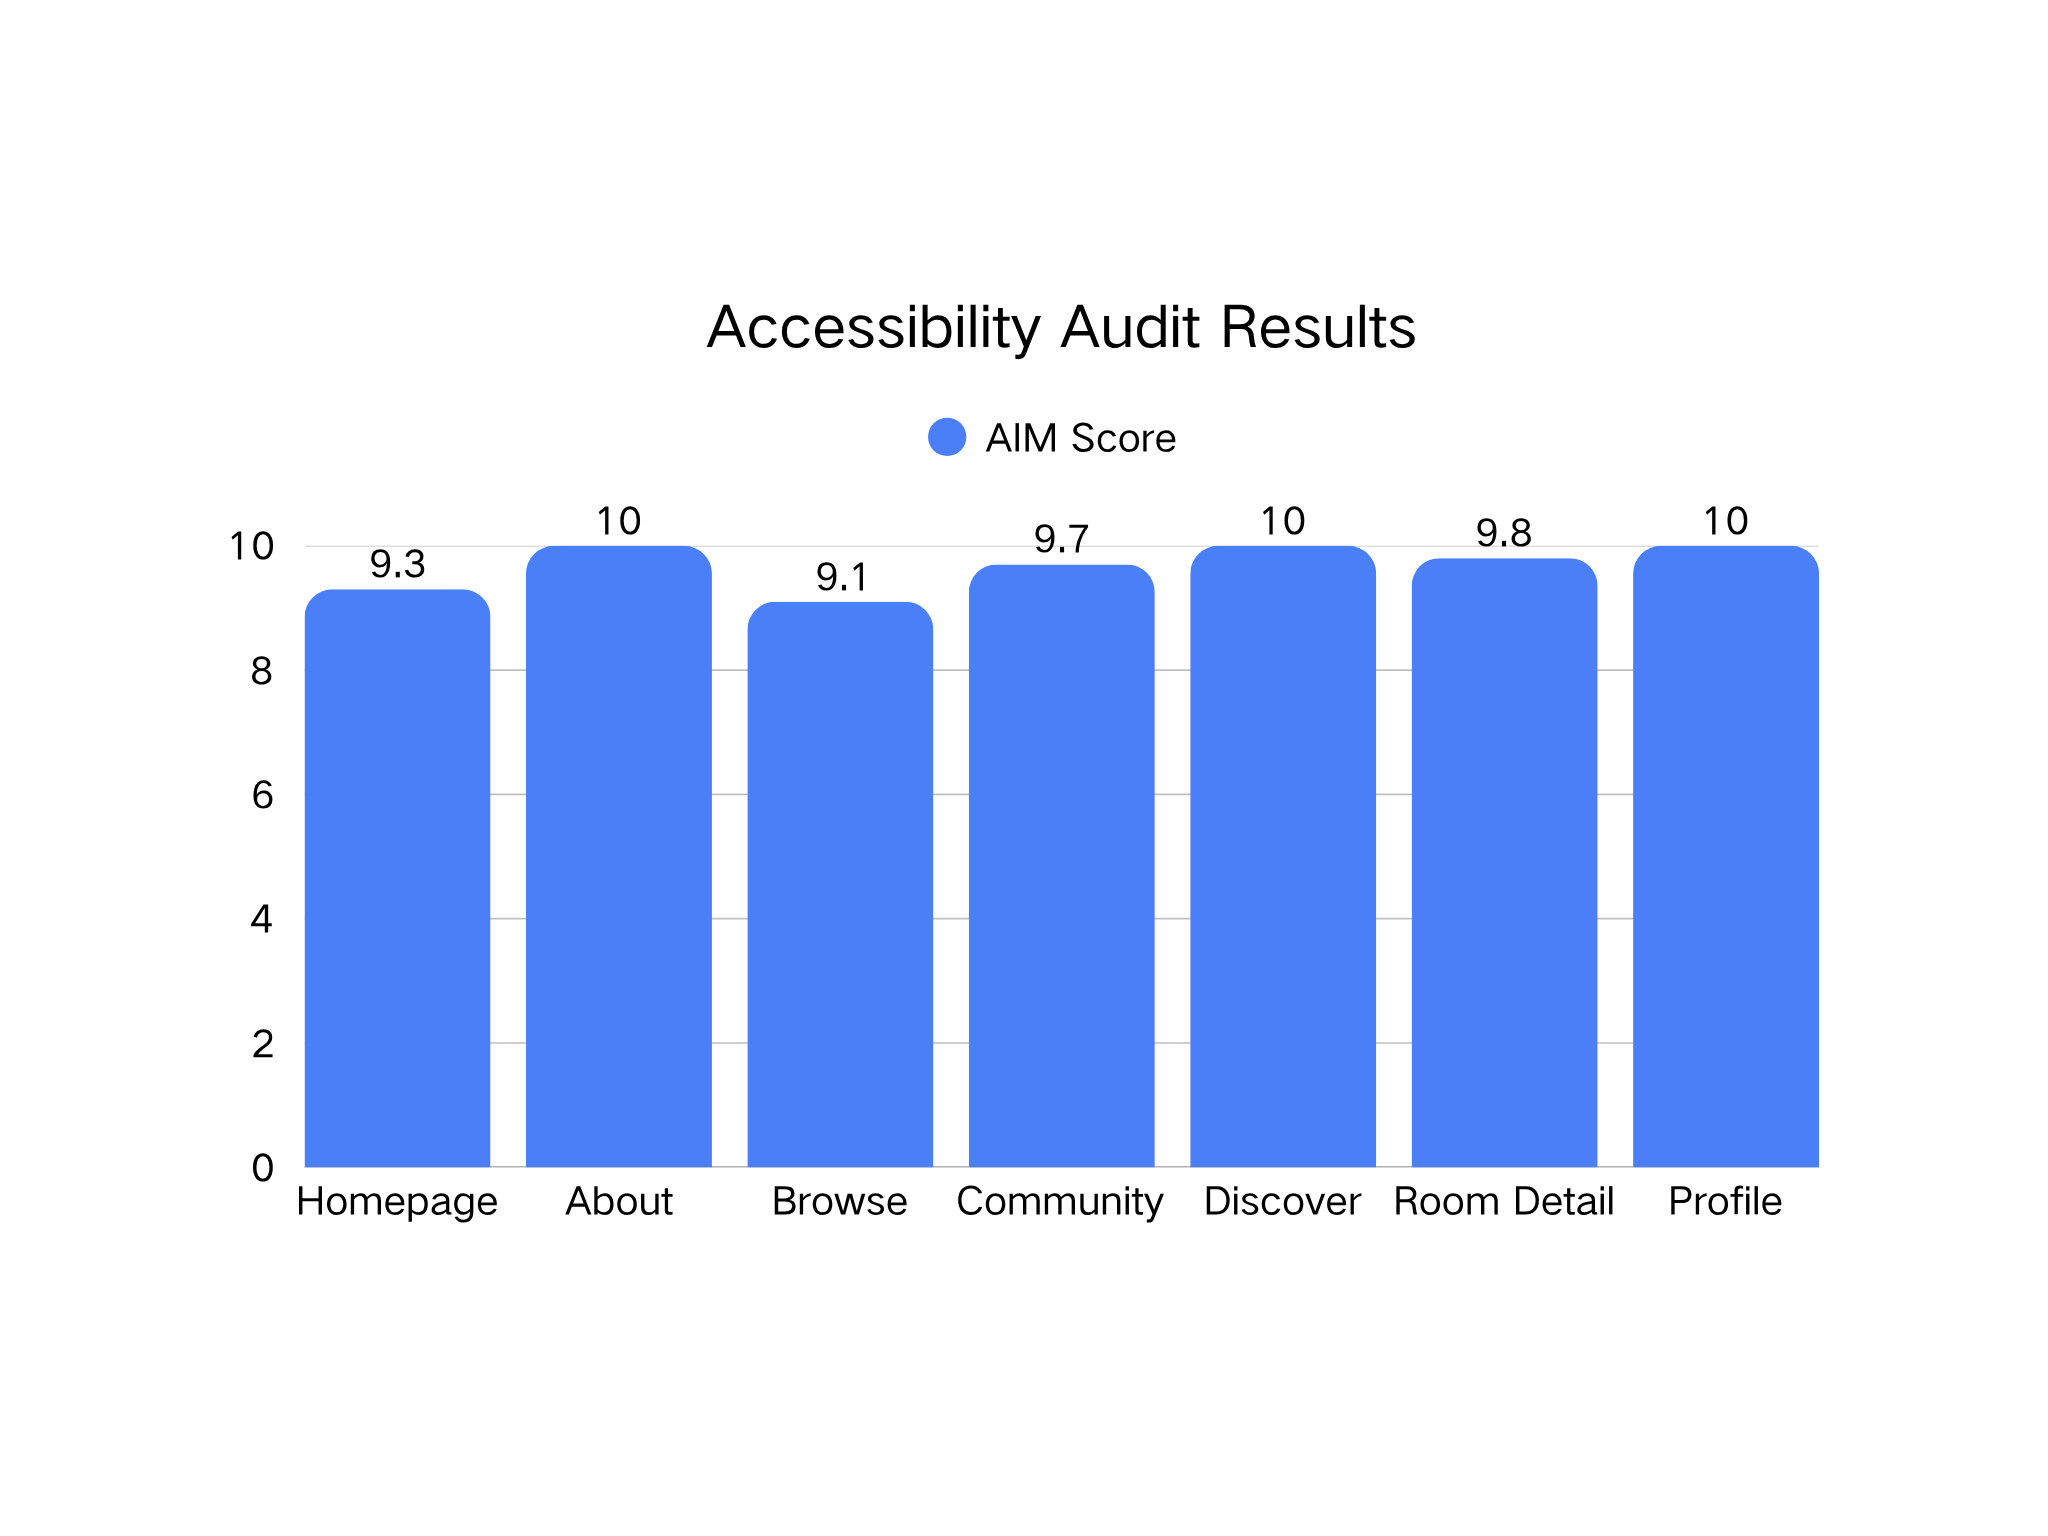
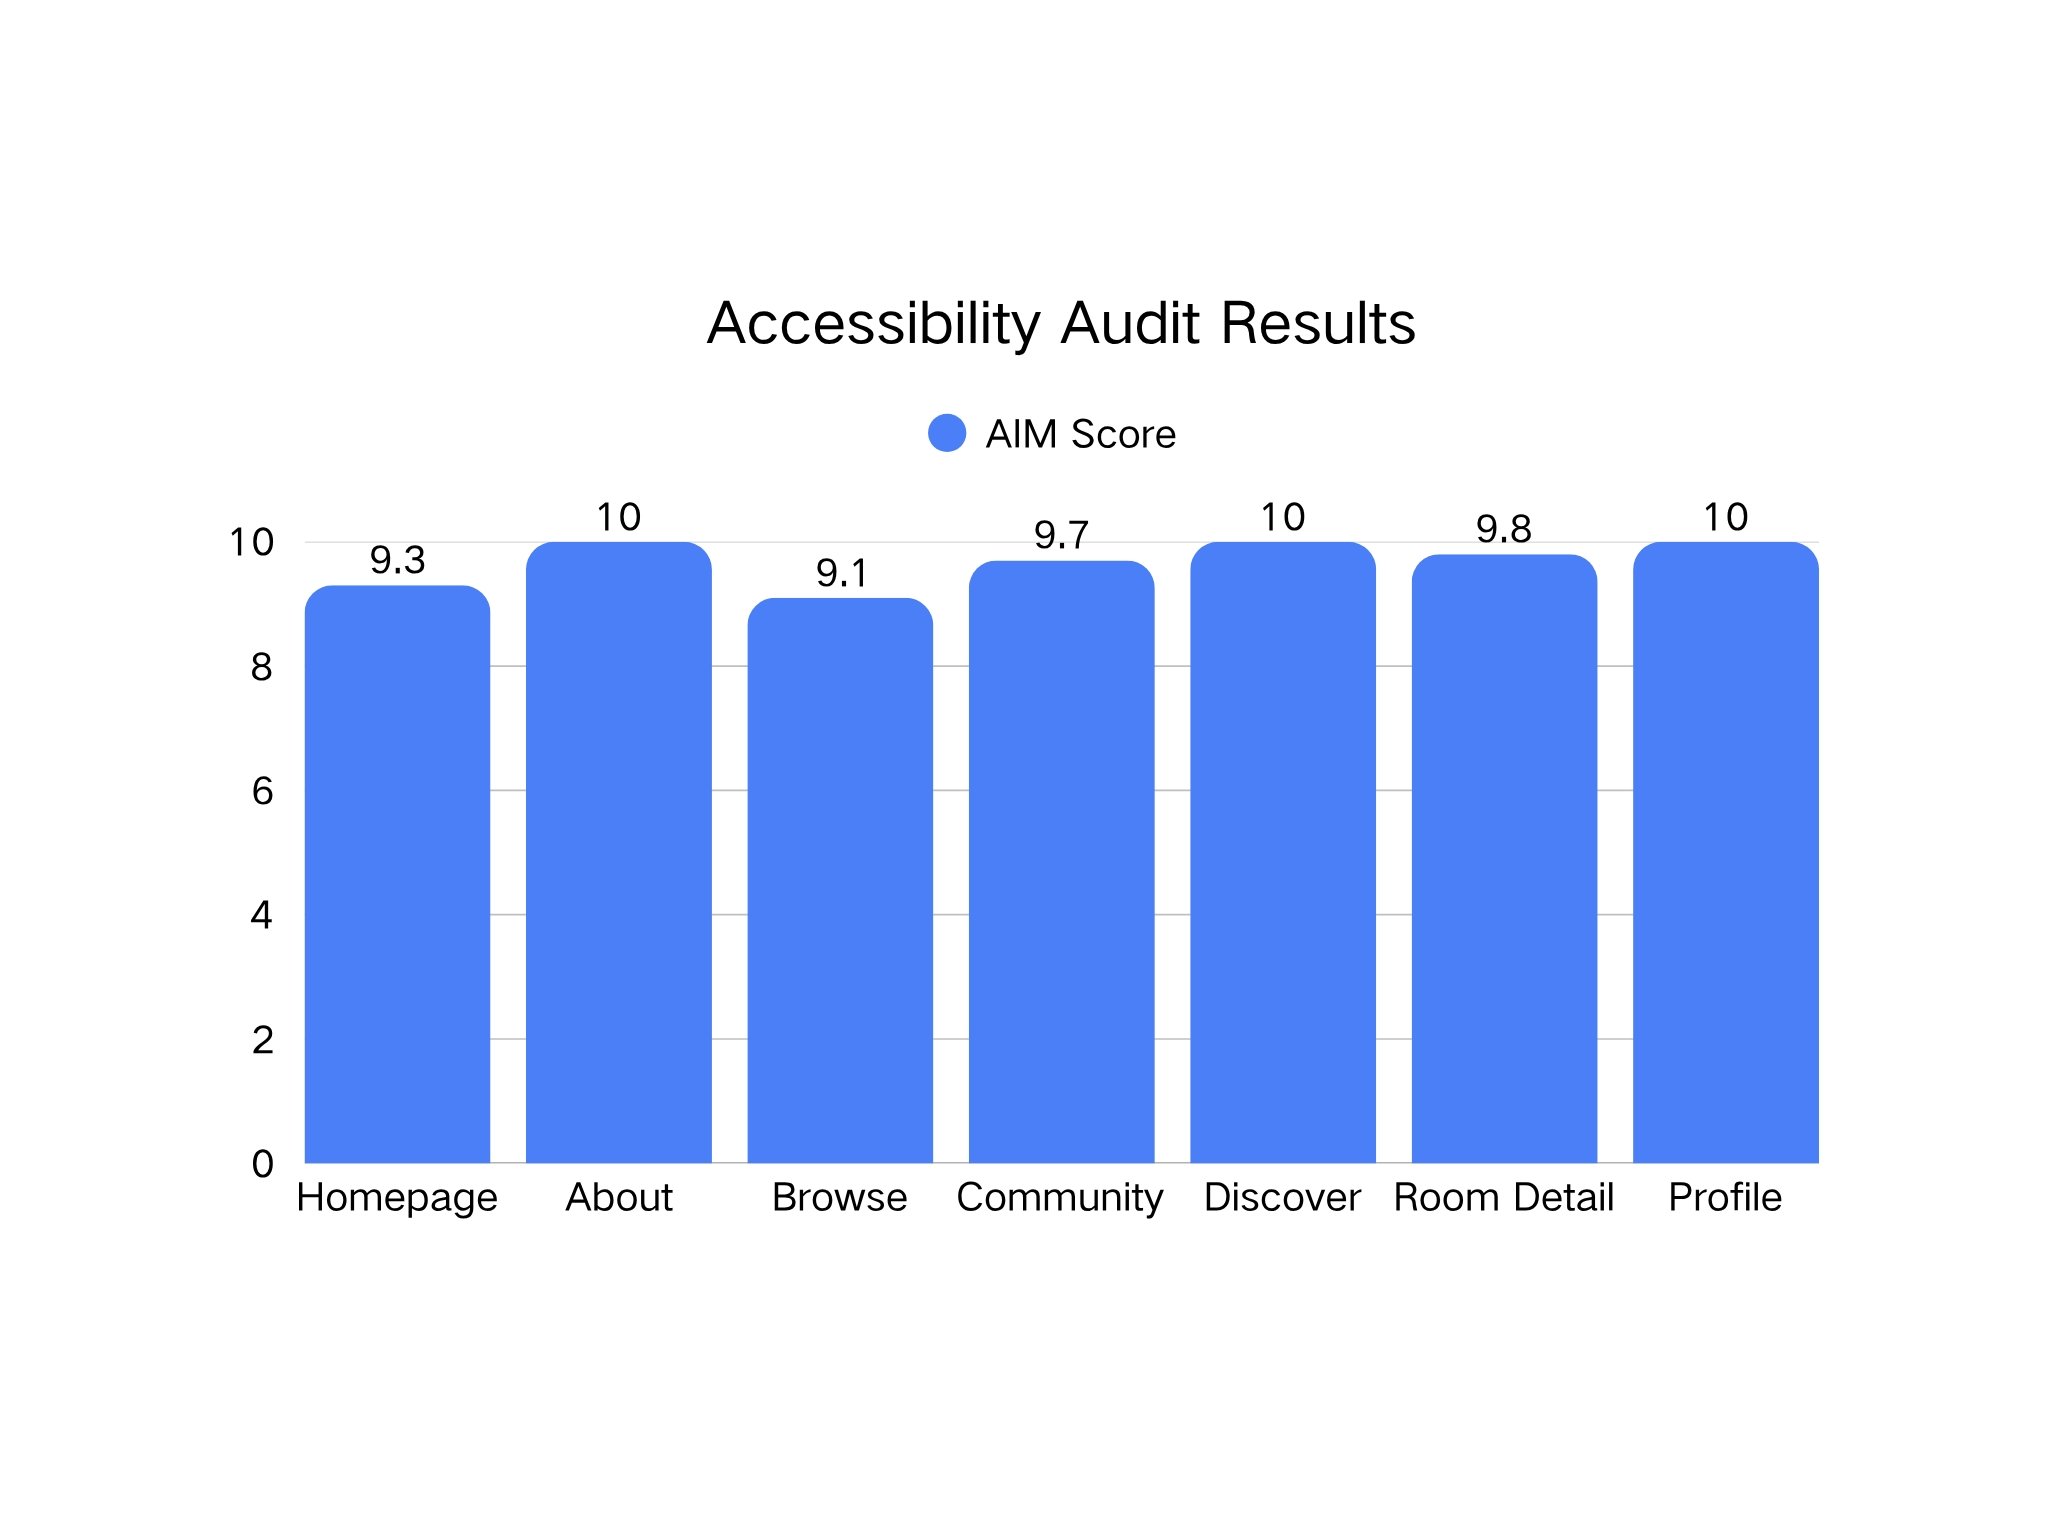
1

diff --git a/posts/blog_Reflection.md b/posts/blog_Reflection.md
@@ -23,19 +23,21 @@ Overall, the final prototype performed good enough for a class project, but the 
 
 ## Evaluation of User Experience and Accessibility
 
-The final user experience is much clearer than the early version because users now have several connected ways to move through the application. A user can start from the homepage, explore the rotating room carousel, scroll through recommendation rows, click into a room detail page, or use “View all” links to open filtered Browse results. The Discover page also supports this flow by linking real tags to Browse filters. This made the application feel more like a connected product rather than a group of unrelated pages.
+A user start from the homepage, explore the rotating room carousel, scroll through recommendation rows, click into a room detail page, or use “View all” links to open filtered Browse results. Then, they get interest with talking to other fans under the comments, clicking the Community page. At night, when users are tired from all-day work, they open Discover, and finally enter Profile to logout.
 
-The Browse page was one of the biggest UX improvements. Earlier in development, the tags felt confusing because they were mixed together without a clear structure. A user could see many tags, but it was not obvious whether a tag described a genre, a mood, or a location. I redesigned the filters into three separate categories: genre, mood, and location. This made the interface easier to understand because users can filter based on intention. For example, if they are looking for an atmosphere, they can use mood; if they are looking for a music style, they can use genre; and if they want a place-based room, they can use location. I also made the homepage recommendation links pass real query parameters, such as `/browse?mood=chill` and `/browse?genre=indie`, so users do not lose context when they move from homepage recommendations into Browse.
+**What a day!**
 
-The room detail page also improved the clarity of the “Sound Room” concept. Before adding this page, clicking “Enter Room” did not really feel like entering a room; it mostly sent users back to browsing. In the final version, each room has its own `/rooms/:id` page with a large rotating record image on the left, room information and a player-style section on the right, and comments below. This makes the room feel like a destination rather than only a card. It also supports the community goal of the app because users can read posts and comments and submit their own comment. This is still a prototype, but it better matches the original idea of music discovery happening inside shared spaces.
+The user experience of the final prototype changed a lot through testing and feedback.
 
-Accessibility testing changed several of my design decisions. I used WAVE to evaluate pages such as the homepage, Browse, Community, Profile, Discover, and Room Detail. One issue was that the homepage originally used large `div` elements for the visual title. It looked like a heading, but semantically the page did not have an `h1`, so WAVE reported a missing first-level heading. I changed the hero title into an actual `h1` while keeping the more experimental layout of “DISCOVER”, “SOUND”, and “ROOMS”. This showed me that visual hierarchy and semantic hierarchy are not the same.
+When I was still sketching, I showed the early structure to my friend and received feedback that some parts of the platform were visually interesting but not immediately clear as a user flow. For example, the idea of “Sound Rooms” was strong, but the early design did not fully explain how a user would move from discovering a room to actually entering it. This helped me focus more on the journey between pages.
 
-WAVE also identified missing form labels. The Community page post input and the Room Detail comment textarea originally relied on placeholder text. I learned that placeholders are not proper labels because they disappear when users type and may not communicate the purpose of the field to screen readers. I fixed this by adding labels, including visually hidden `.sr-only` labels where I did not want visible text to change the layout. This was a small code change, but it made the forms more inclusive.
+In the prototype stage, I tested the interface again and realised that Browse was one of the most important pages. Earlier, the tags felt confusing because they were mixed together without a clear structure. A user could see many tags, but it was not obvious whether a tag described a genre, a mood, or a location. I redesigned the filters into three separate categories: genre, mood, and location, so users could filter based on intention. I also made the homepage recommendation links pass real query parameters, so these became more logical and linked to the Browse page smoother.
 
-Colour contrast was another repeated accessibility issue. Many small metadata elements used light grey text, such as `#777`, on white or off-white backgrounds. WAVE marked several of these as low contrast, including post room labels, post actions, profile activity times, playlist numbers, and discover card metadata. I adjusted these colours to darker values such as `#222` or `#111` and sometimes increased font weight. I also learned that using opacity to make text look subtle can cause contrast problems. For example, the homepage subtitle originally used low opacity, which made it fail contrast checks. Replacing opacity with a darker colour value kept the visual style while improving readability.
+Another improvement from prototype testing was the Room Detail page. Before adding it, clicking “Enter Room” did not really feel like entering a room; it mostly sent users back to browsing or searching. This made the core concept weaker, because the “room” existed only as a card. In the final version, each room has its own /rooms/:id page with a large rotating record image, room information, a player-style section, posts, comments, and a comment form. When designing this, I drew inspiration from music streaming apps like Spotify and QQ Music. It also supported the community goal more clearly because users can read room-related discussion and submit their own comment. However, this comment system isn't quite ready yet; for example, the “like” feature and nested comments haven't been implemented yet. I expect these features will be included in a future development.
 
-There are still some UX issues I would improve. The Browse cards contain a lot of information, including image, title, description, tags, statistics, metadata, and an enter link. Although I adjusted card height and text clamping, the cards can still feel dense. In a future version, I would simplify the Browse cards and leave more detailed information for the Room Detail page. I would also test keyboard navigation and screen reader behaviour more thoroughly. WAVE was useful for identifying issues, but it cannot replace testing how real users move through the site.
+For accessibility, I used WAVE and AIM scores as evidence to evaluate. This helped me identify issues that were not obvious from visual inspection alone. For example, the homepage originally used large div elements for the visual title. It looked like a heading, but semantically the page did not have an h1, so WAVE reported a missing first-level heading. I changed the hero title into an actual h1 while keeping the experimental visual layout of “DISCOVER”, “SOUND”, and “ROOMS”. WAVE also identified several missing labels on the Community post input and the Room Detail comment textarea. I fixed these by adding proper labels, including visually hidden `.sr-only` labels where I did not want the visual layout to change.
+
+The most repeated accessibility issue was colour contrast. Many small metadata elements used light grey text such as #777 on white or off-white backgrounds, including post room labels, room details, playlist numbers, and discover card metadata. These were marked as low contrast, so I changed them to darker values to #333 and sometimes increased font weight. This kept the black-and-white visual style but made the interface easier to read. The AIM scores after these fixes were generally strong across the main pages, with all pages scoring above 9.0.
 
 ![Wave Evaluation of Homepage](assets/Wave-Evaluation-of-Homepage.png)
 *Figure 1. Wave Evaluation of Homepage.*
